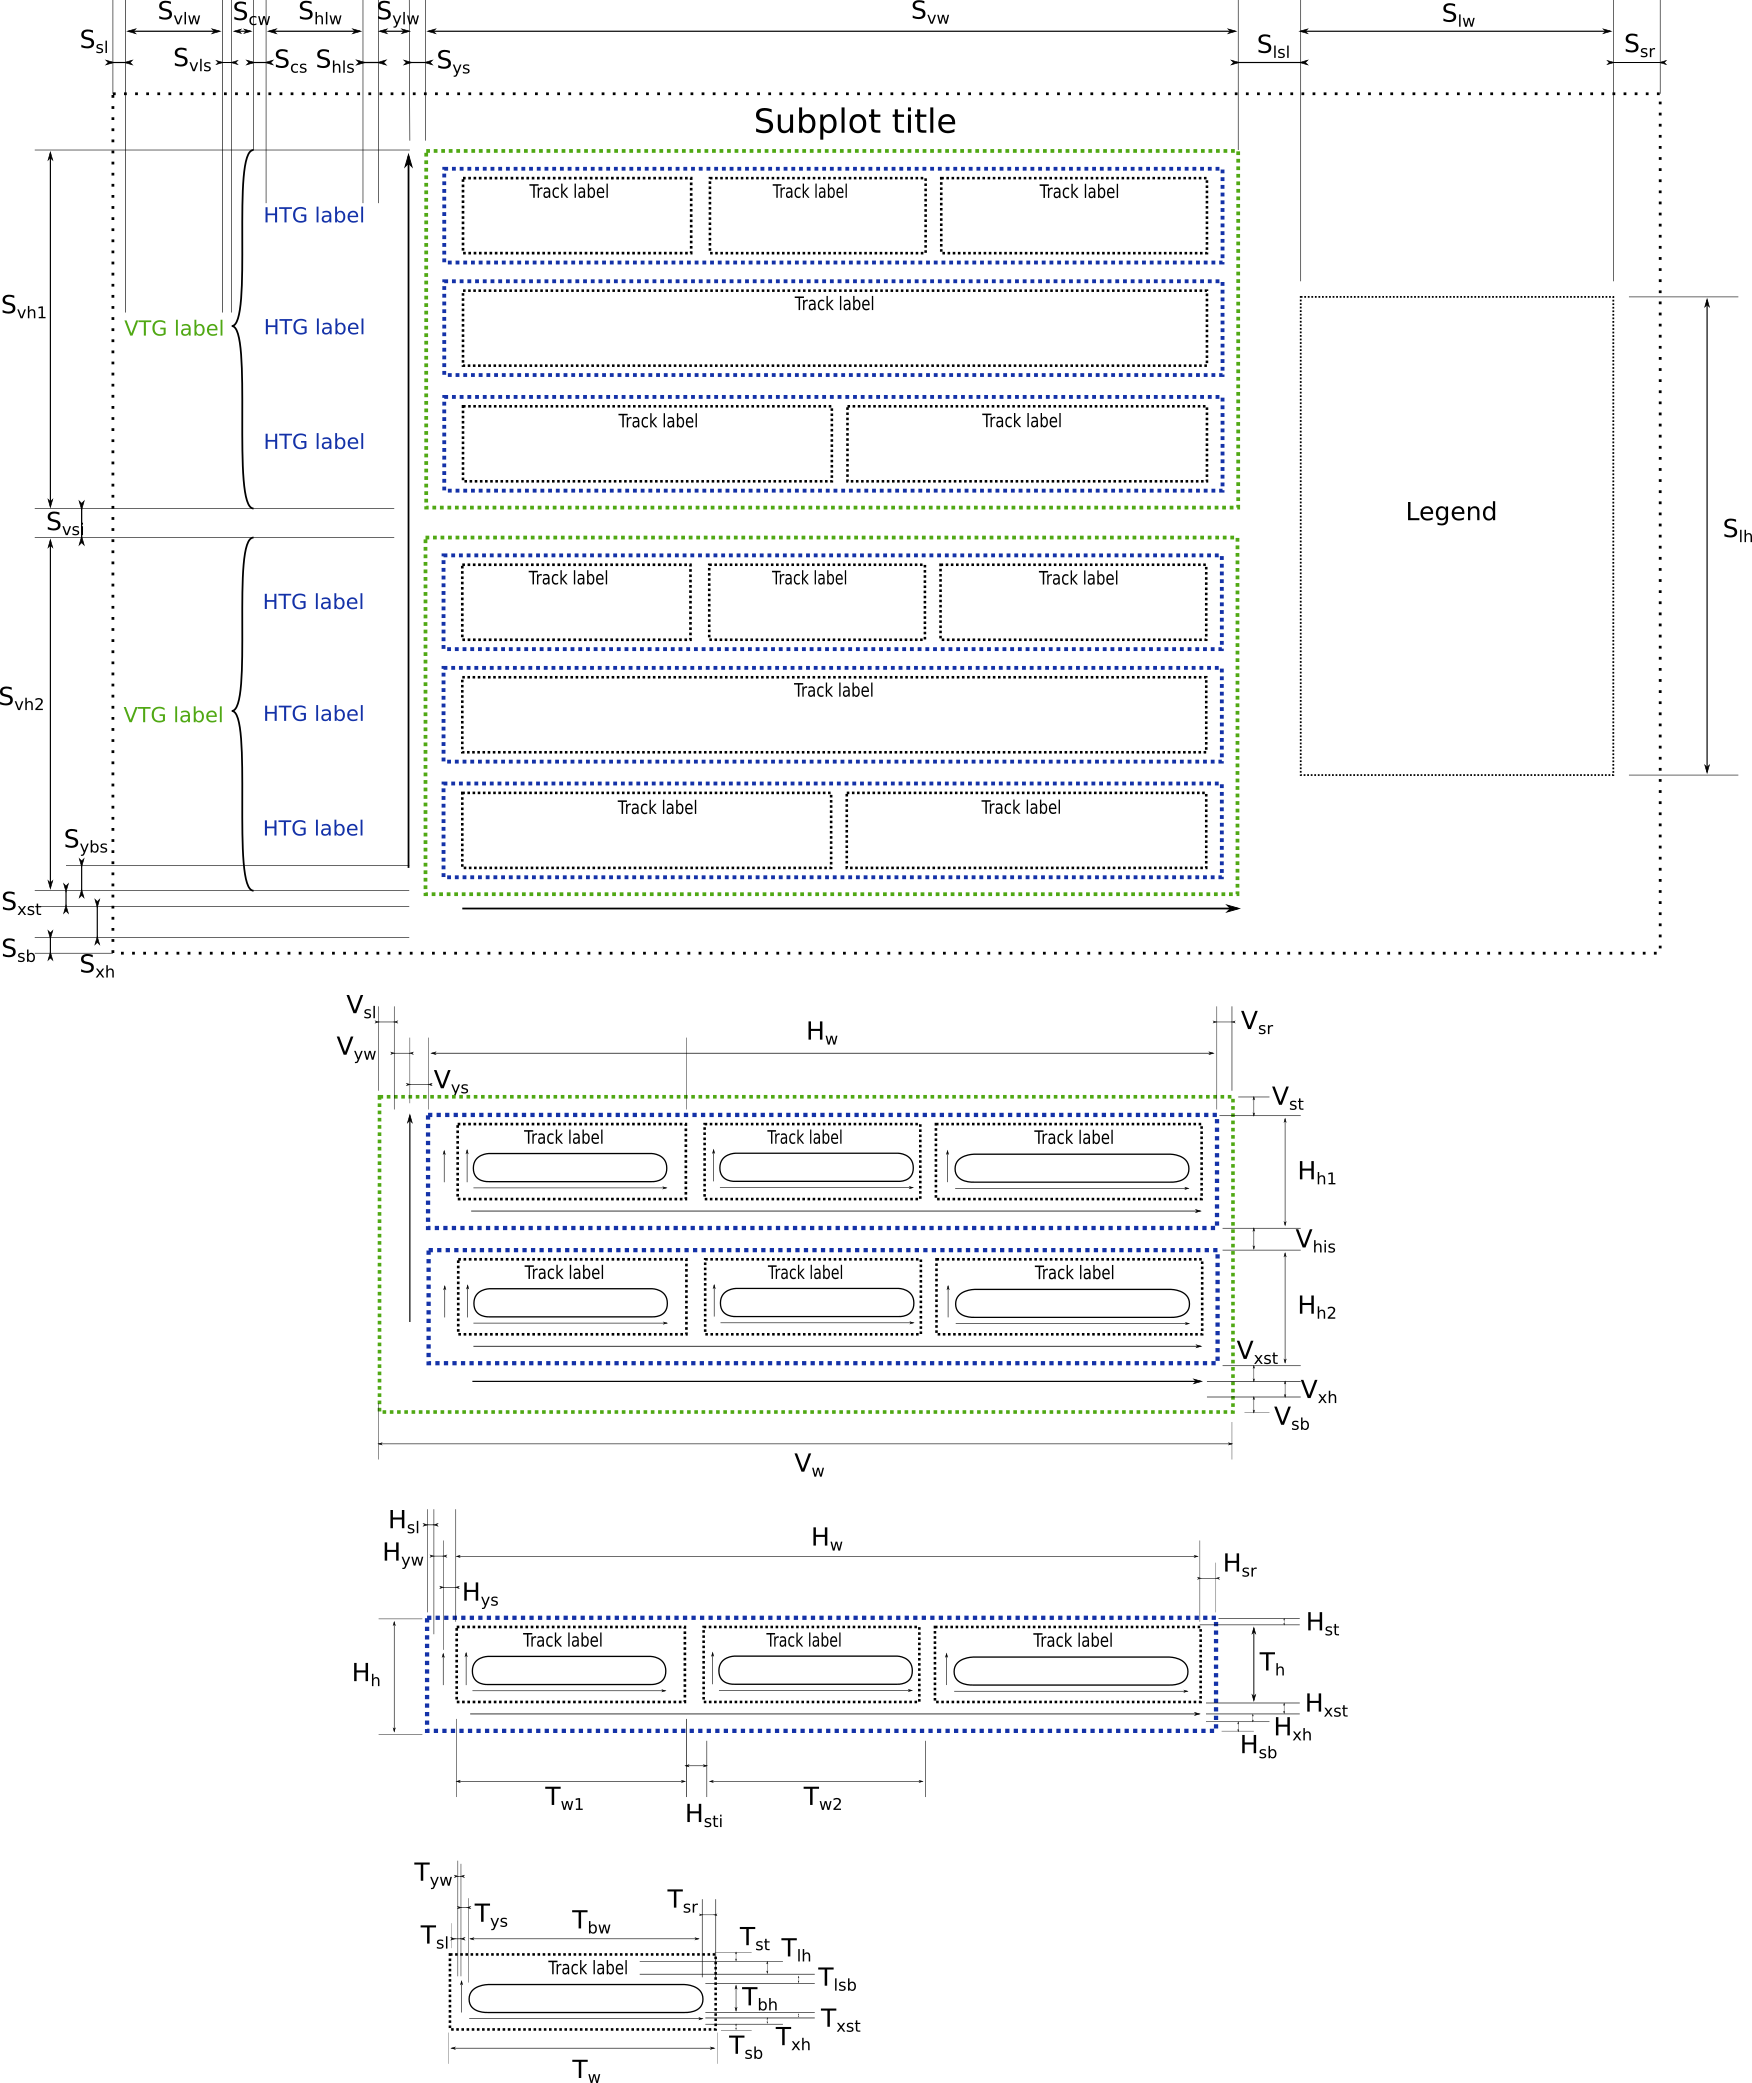
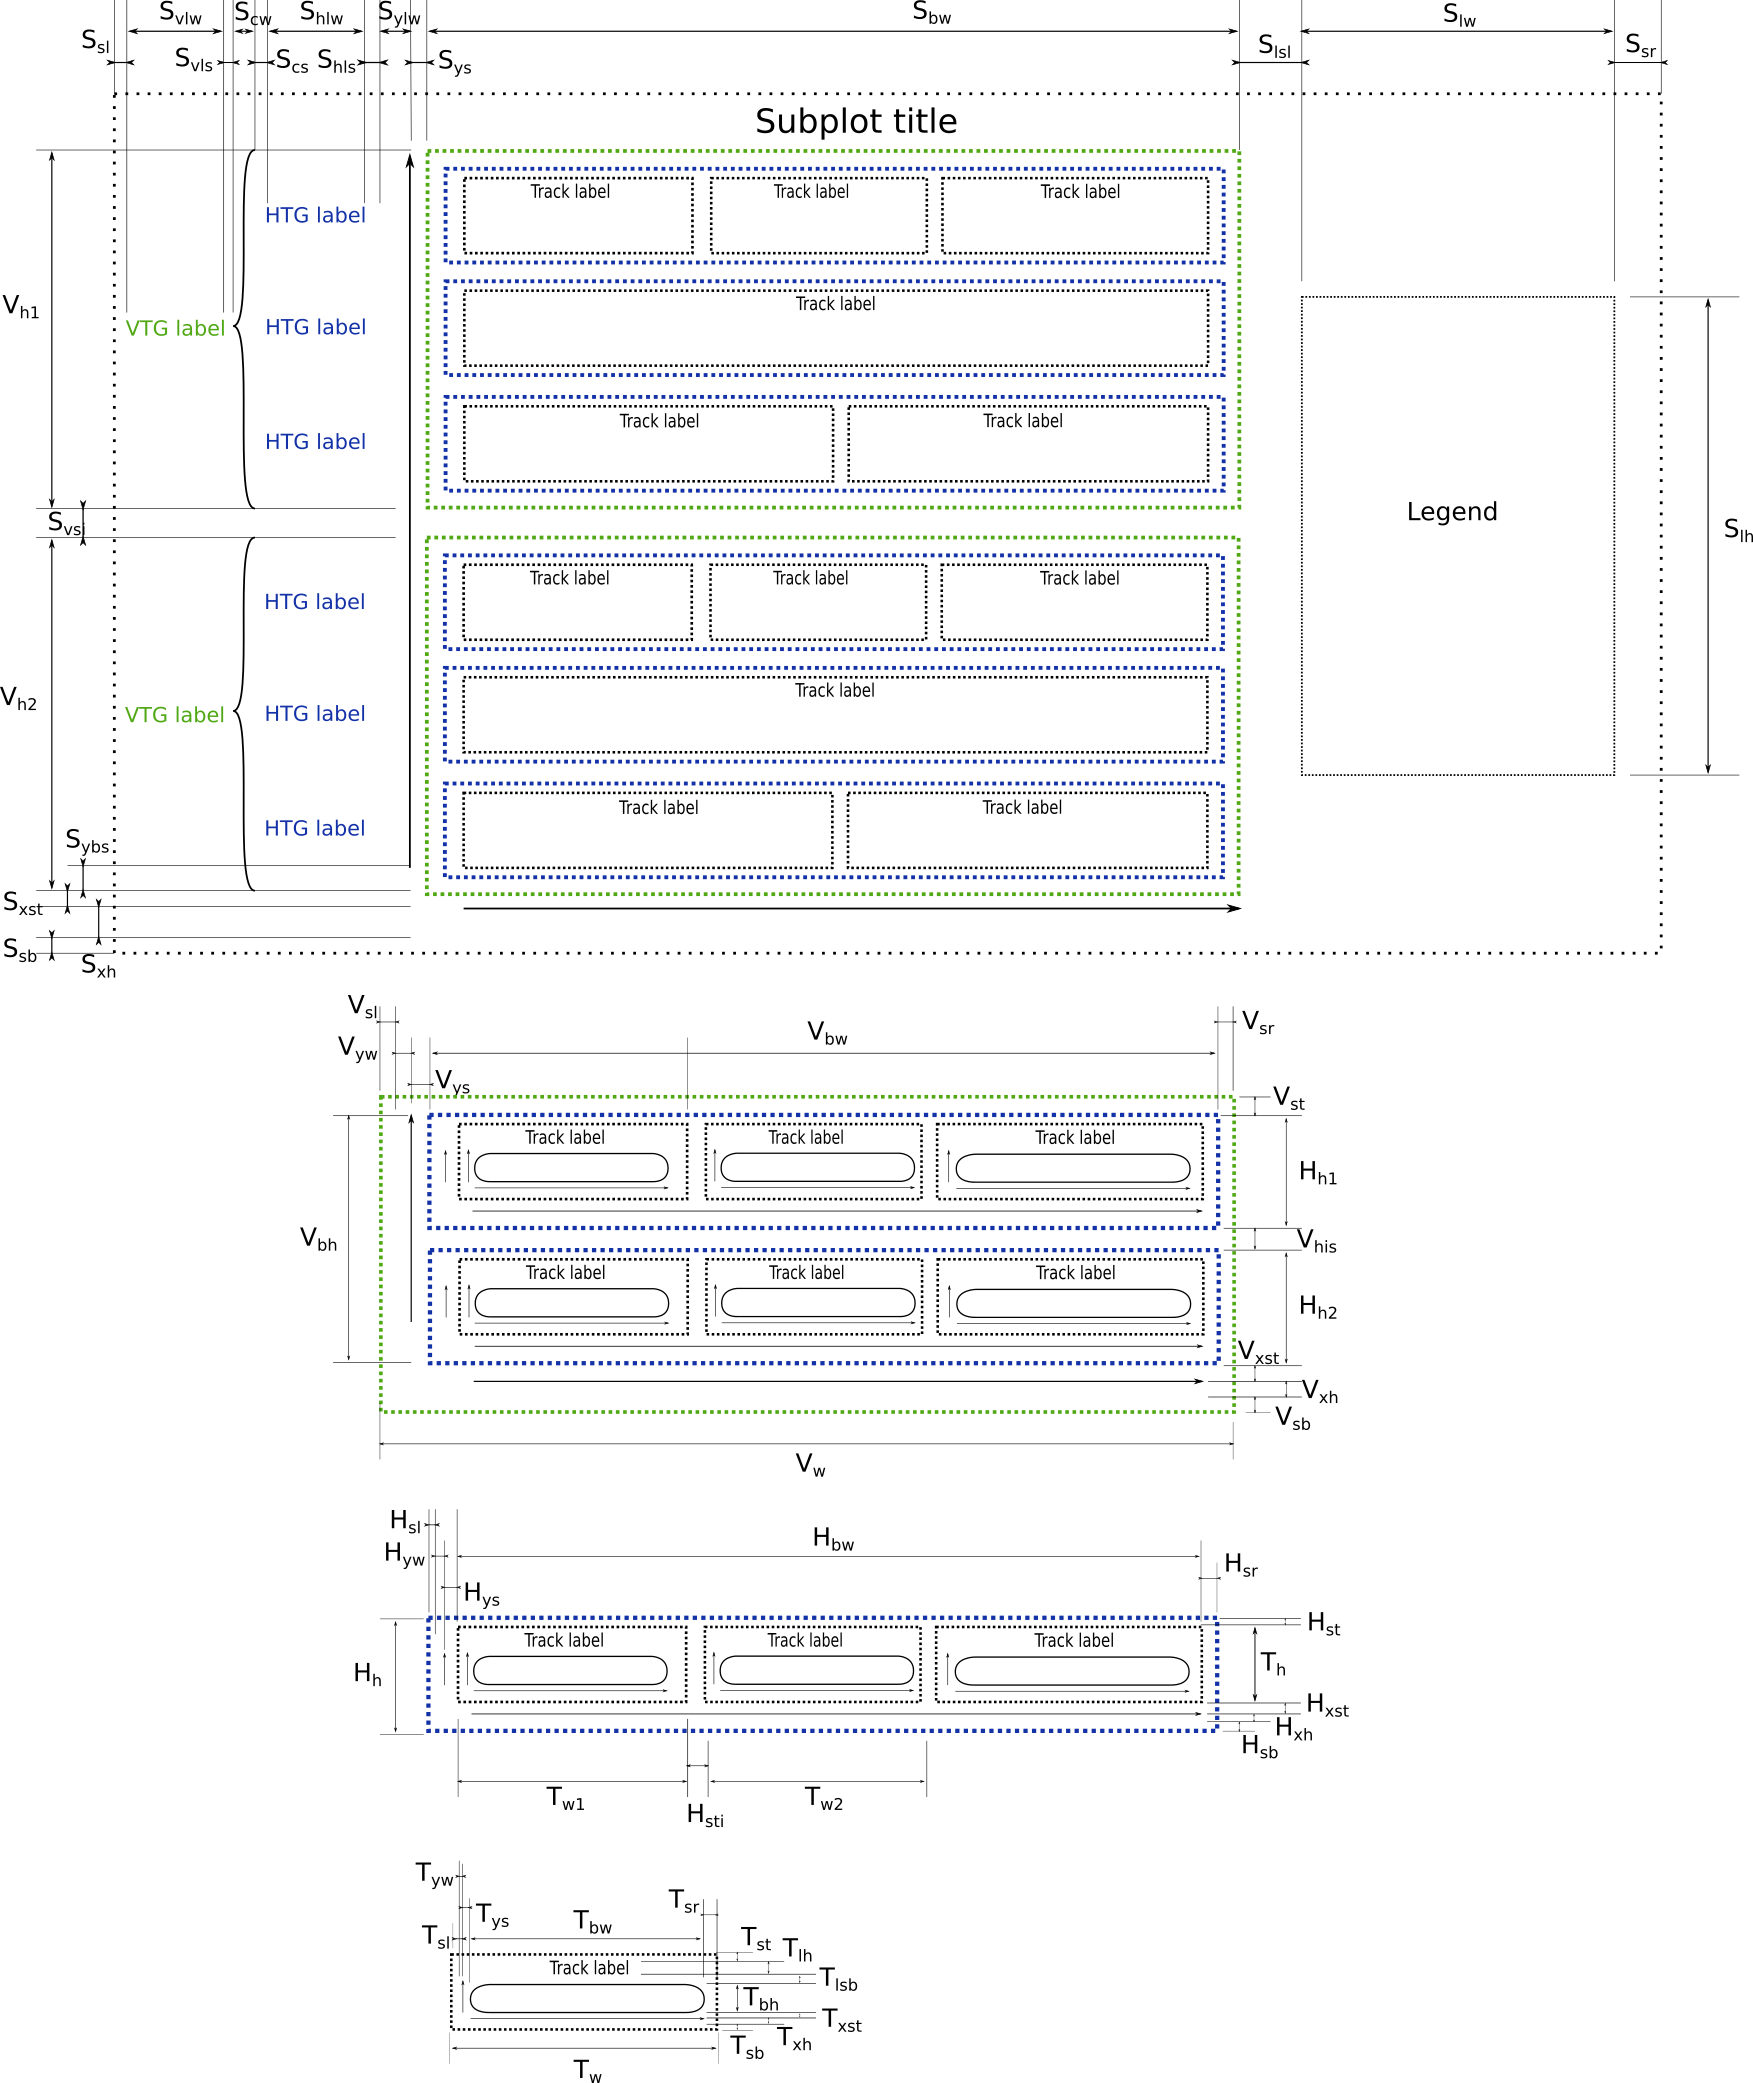
added cutting of a sheetname (due to Excel limit of 31 chars) to draw_macrosynteny.py

diff --git a/documentation/drawing/drawing_objects.md b/documentation/drawing/drawing_objects.md
@@ -22,14 +22,14 @@
       7. S<sub>hls</sub>  - space between horizontal track group label and subplot's Y axis
       8. S<sub>ylw</sub>  - width of Y axis (including ticks and label)
       9. S<sub>ys</sub>   - space between Y axis and vertical track groups
-      10. S<sub>vw</sub>  - width of vertical track groups
+      10. S<sub>bw</sub>  - width of subplot body
       11. S<sub>lsl</sub> - space between vertical track groups and legend
       12. S<sub>lw</sub>  - width of the legend
       13. S<sub>sr</sub>  - right space
    2. Vertical dimensions
-      1. S<sub>vh1</sub>  - height of the first vertical track group
+      1. V<sub>h1</sub>  - height of the first vertical track group
       2. S<sub>vs</sub>   - space between vertical track groups
-      3. S<sub>vh2</sub>  - height of the second vertical track group
+      3. V<sub>h2</sub>  - height of the second vertical track group
       
           ..................................................................
    
@@ -43,34 +43,35 @@
       1. V<sub>sl</sub>   - left space 
       2. V<sub>yw</sub>   - width of the vertical track group's Y axis (including ticks and label)
       3. V<sub>ys</sub>   - space between vertical track group's Y axis and horizontal track groups
-      4. V<sub>hw</sub>   - width of the horizontal track groups 
+      4. V<sub>bw</sub>   - width width of the vertical track group body 
       5. V<sub>sr</sub>   - right space
-      6. V<sub>w</sub>    - whole width of the vertical track groups
    2. Vertical dimensions
       1. V<sub>st</sub>   - top space
-      2. V<sub>hh1</sub>  - height of the first horizontal track group
-      3. V<sub>his</sub>  - space between horizontal track groups
-      4. V<sub>hh2</sub>  - height of the second horizontal track group
+      2. V<sub>bh</sub>   - height of the vertical track group body
+      3. H<sub>h1</sub>   - height of the first horizontal track group
+      4. V<sub>his</sub>  - space between horizontal track groups
+      5. H<sub>h2</sub>   - height of the second horizontal track group
     
          .....................................................................
 
-      5. V<sub>Vhhn</sub>  - height of the last horizontal track group
-      6. V<sub>Vxst</sub>  - space between the last horizontal track group and vertical track group's X axis 
-      7. V<sub>Vxh</sub>   - height of the X axis (including ticks and label)
-      8. V<sub>Vsb</sub>   - bottom space
+      6. H<sub>hn</sub>   - height of the last horizontal track group
+      7. V<sub>xst</sub>  - space between the last horizontal track group and vertical track group's X axis 
+      8. V<sub>xh</sub>   - height of the X axis (including ticks and label)
+      9. V<sub>sb</sub>   - bottom space
 3. Dimensions of the horizontal track group
    1. Horizontal dimensions
       1. H<sub>sl</sub>   - left space
       2. H<sub>yw</sub>   - width of the horizontal track group's Y axis (including ticks and label)
       3. H<sub>ys</sub>   - space between horizontal track group's Y axis and first track
-      4. H<sub>tw1</sub>  - width of the first track 
-      5. H<sub>sti</sub>  - space between tracks
-      6. H<sub>tw2</sub>  - width of the second track
+      4. H<sub>bw</sub>   - width of the horizontal track group body 
+      5. T<sub>w1</sub>   - width of the first track
+      6. H<sub>sti</sub>  - space between tracks
+      7. T<sub>w2</sub>   - width of the second track
     
          .....................................................................
 
-      7. H<sub>twn</sub>  - width of the last track
-      8. H<sub>sb</sub>   - right space
+      8. T<sub>wn</sub>  - width of the last track
+      9. H<sub>sb</sub>   - right space
    2. Vertical dimensions
       1. H<sub>st</sub>   - top space
       2. H<sub>ht</sub>   - height of the tracks
@@ -95,7 +96,7 @@
 
 # Formulas:
 
-*Track width* T<sub>w</sub> = T<sub>sl</sub> + T<sub>yw</sub> + T<sub>ys</sub> + T<sub>bw</sub> +  T<sub>sb</sub>
+**Track width** T<sub>w</sub> = T<sub>sl</sub> + T<sub>yw</sub> + T<sub>ys</sub> + T<sub>bw</sub> +  T<sub>sb</sub>
 
 | dimension | T<sub>sl</sub>       | T<sub>yw</sub>  | T<sub>ys</sub>   | T<sub>bw</sub> | T<sub>sb</sub> |
 |-----------|----------------------|-----------------|------------------|----------------|----------------|
@@ -104,7 +105,7 @@
 
 \* fraction of max (T<sub>bw</sub>)
 
-*Track height* T<sub>h</sub> = T<sub>st</sub> + T<sub>lh</sub> + T<sub>lsb</sub> + T<sub>bh</sub> + T<sub>xst</sub>  + T<sub>xh</sub> + T<sub>sb</sub>
+**Track height** T<sub>h</sub> = T<sub>st</sub> + T<sub>lh</sub> + T<sub>lsb</sub> + T<sub>bh</sub> + T<sub>xst</sub>  + T<sub>xh</sub> + T<sub>sb</sub>
 
 | dimension | T<sub>st</sub> | T<sub>lh</sub>   | T<sub>lsb</sub> | T<sub>bh</sub> | T<sub>xst</sub> | T<sub>xh</sub>  | T<sub>sb</sub> |
 |-----------|----------------|------------------|-----------------|----------------|-----------------|-----------------|----------------|
@@ -112,7 +113,8 @@
 | values    | absolute       | absolute         | absolute        | absolute       | absolute        | absolute        | absolute       |
 
 
-*Horizontal track group width* H<sub>w</sub> = H<sub>sl</sub> + H<sub>yw</sub> + H<sub>ys</sub> + sum(T<sub>wi</sub>) + (N-1)* H<sub>sti</sub> + H<sub>sr</sub>
+**Horizontal track group width** H<sub>w</sub> = H<sub>sl</sub> + H<sub>yw</sub> + H<sub>ys</sub> + H<sub>bw</sub> + H<sub>sr</sub>
+                                 H<sub>bw</sub = sum(T<sub>wi</sub>) + (N-1)* H<sub>sti</sub>
 
 | dimension | H<sub>sl</sub>       | H<sub>yw</sub>  | H<sub>ys</sub> | T<sub>wi</sub> | H<sub>sti</sub> | H<sub>sr</sub> |
 |-----------|----------------------|-----------------|----------------|----------------|-----------------|----------------|
@@ -121,10 +123,47 @@
 
 \* fraction max(sum(T<sub>bw</sub>) per horizontal track group) 
 
-*Horizontal track group height* H<sub>h</sub> = H<sub>st</sub> + H<sub>ht</sub> + H<sub>xst</sub> + H<sub>xh</sub> + H<sub>sb</sub>
+
+**Horizontal track group height** H<sub>h</sub> = H<sub>st</sub> + H<sub>ht</sub> + H<sub>xst</sub> + H<sub>xh</sub> + H<sub>sb</sub>
 
 | dimension | H<sub>st</sub> | H<sub>ht</sub>     | H<sub>xst</sub> | H<sub>xh</sub>  | H<sub>sb</sub> |
 |-----------|----------------|--------------------|-----------------|-----------------|----------------|
 | source    | style          | max(T<sub>h</sub>) | style           | auto from style | style          |
 | values    | absolute       | absolute           | absolute        | absolute        | absolute       |
 
+**Vertical track group width** V<sub>w</sub> = V<sub>sl</sub> + V<sub>yw</sub> + V<sub>ys</sub> + V<sub>bw</sub> + V<sub>sr</sub>
+                               V<sub>bw</sub = max(H<sub>w</sub>)
+
+| dimension | V<sub>sl</sub>       | V<sub>yw</sub>  | V<sub>ys</sub> | V<sub>bw</sub> | V<sub>sr</sub> |
+|-----------|----------------------|-----------------|----------------|----------------|----------------|
+| source    | style                | auto from style | style          | data           | style          |
+| values    | fraction<sup>*</sup> | fraction        | fraction       | absolute       | fraction       |
+
+\* fraction of V<sub>bw</sub>
+
+**Vertical track group height** V<sub>h</sub> = V<sub>st</sub> + V<sub>bh</sub> + V<sub>xst</sub> + V<sub>xh</sub> + V<sub>sb</sub>
+                                V<sub>bh</sub> = sum(H<sub>hi</sub>) + (N-1)* V<sub>his</sub>
+
+| dimension | V<sub>st</sub> | H<sub>hi</sub> | V<sub>his</sub> | V<sub>xst</sub> | V<sub>xh</sub>  | V<sub>sb</sub> |
+|-----------|----------------|----------------|-----------------|-----------------|-----------------|----------------|
+| source    | style          | data           | style           | style           | auto from style | style          |
+| values    | absolute       | absolute       | absolute        | absolute        | absolute        | absolute       |
+
+
+**Subplot width** S<sub>w</sub> = S<sub>sl</sub> + S<sub>vlw</sub> + S<sub>vls</sub> + S<sub>cw</sub> + S<sub>cs</sub> + S<sub>hlw</sub> + S<sub>hls</sub> + S<sub>ylw</sub> + S<sub>ys</sub> + S<sub>bw</sub> + S<sub>lsl</sub> + S<sub>lw</sub> + S<sub>sr</sub>
+                  S<sub>bw</sub = max(V<sub>w</sub>)
+
+| dimension | S<sub>sl</sub>       | S<sub>vlw</sub> | S<sub>vls</sub> | S<sub>cw</sub> | S<sub>cs</sub> | S<sub>hlw</sub> | S<sub>hls</sub> | S<sub>ylw</sub> | S<sub>ys</sub> | S<sub>bw</sub> | S<sub>lsl</sub> | S<sub>lw</sub> | S<sub>sr</sub> |
+|-----------|----------------------|-----------------|-----------------|----------------|----------------|-----------------|-----------------|-----------------|----------------|----------------|-----------------|----------------|----------------|
+| source    | style                | auto            | style           | style          | style          | auto            | style           | auto from style | style          | data           | style           | data           | style          |
+| values    | fraction<sup>*</sup> | NA              | fraction        | fraction       | fraction       | NA              | fraction        | fraction        | fraction       | absolute       | fraction        | fraction       | fraction       |
+
+\* fraction of S<sub>bw</sub>
+
+**Subplot height** V<sub>h</sub> = S<sub>bh</sub> + V<sub>xst</sub> + V<sub>xh</sub> + V<sub>sb</sub>
+                   V<sub>bh</sub> = sum(V<sub>hi</sub>) + (N-1)* S<sub>vs</sub>
+
+| dimension | V<sub>hi</sub> | S<sub>vs</sub> | S<sub>his</sub> | S<sub>xst</sub> | S<sub>xh</sub>  | S<sub>sb</sub> |
+|-----------|----------------|----------------|-----------------|-----------------|-----------------|----------------|
+| source    | data           | style          | style           | style           | auto from style | style          |
+| values    | absolute       | absolute       | absolute        | absolute        | absolute        | absolute       |
